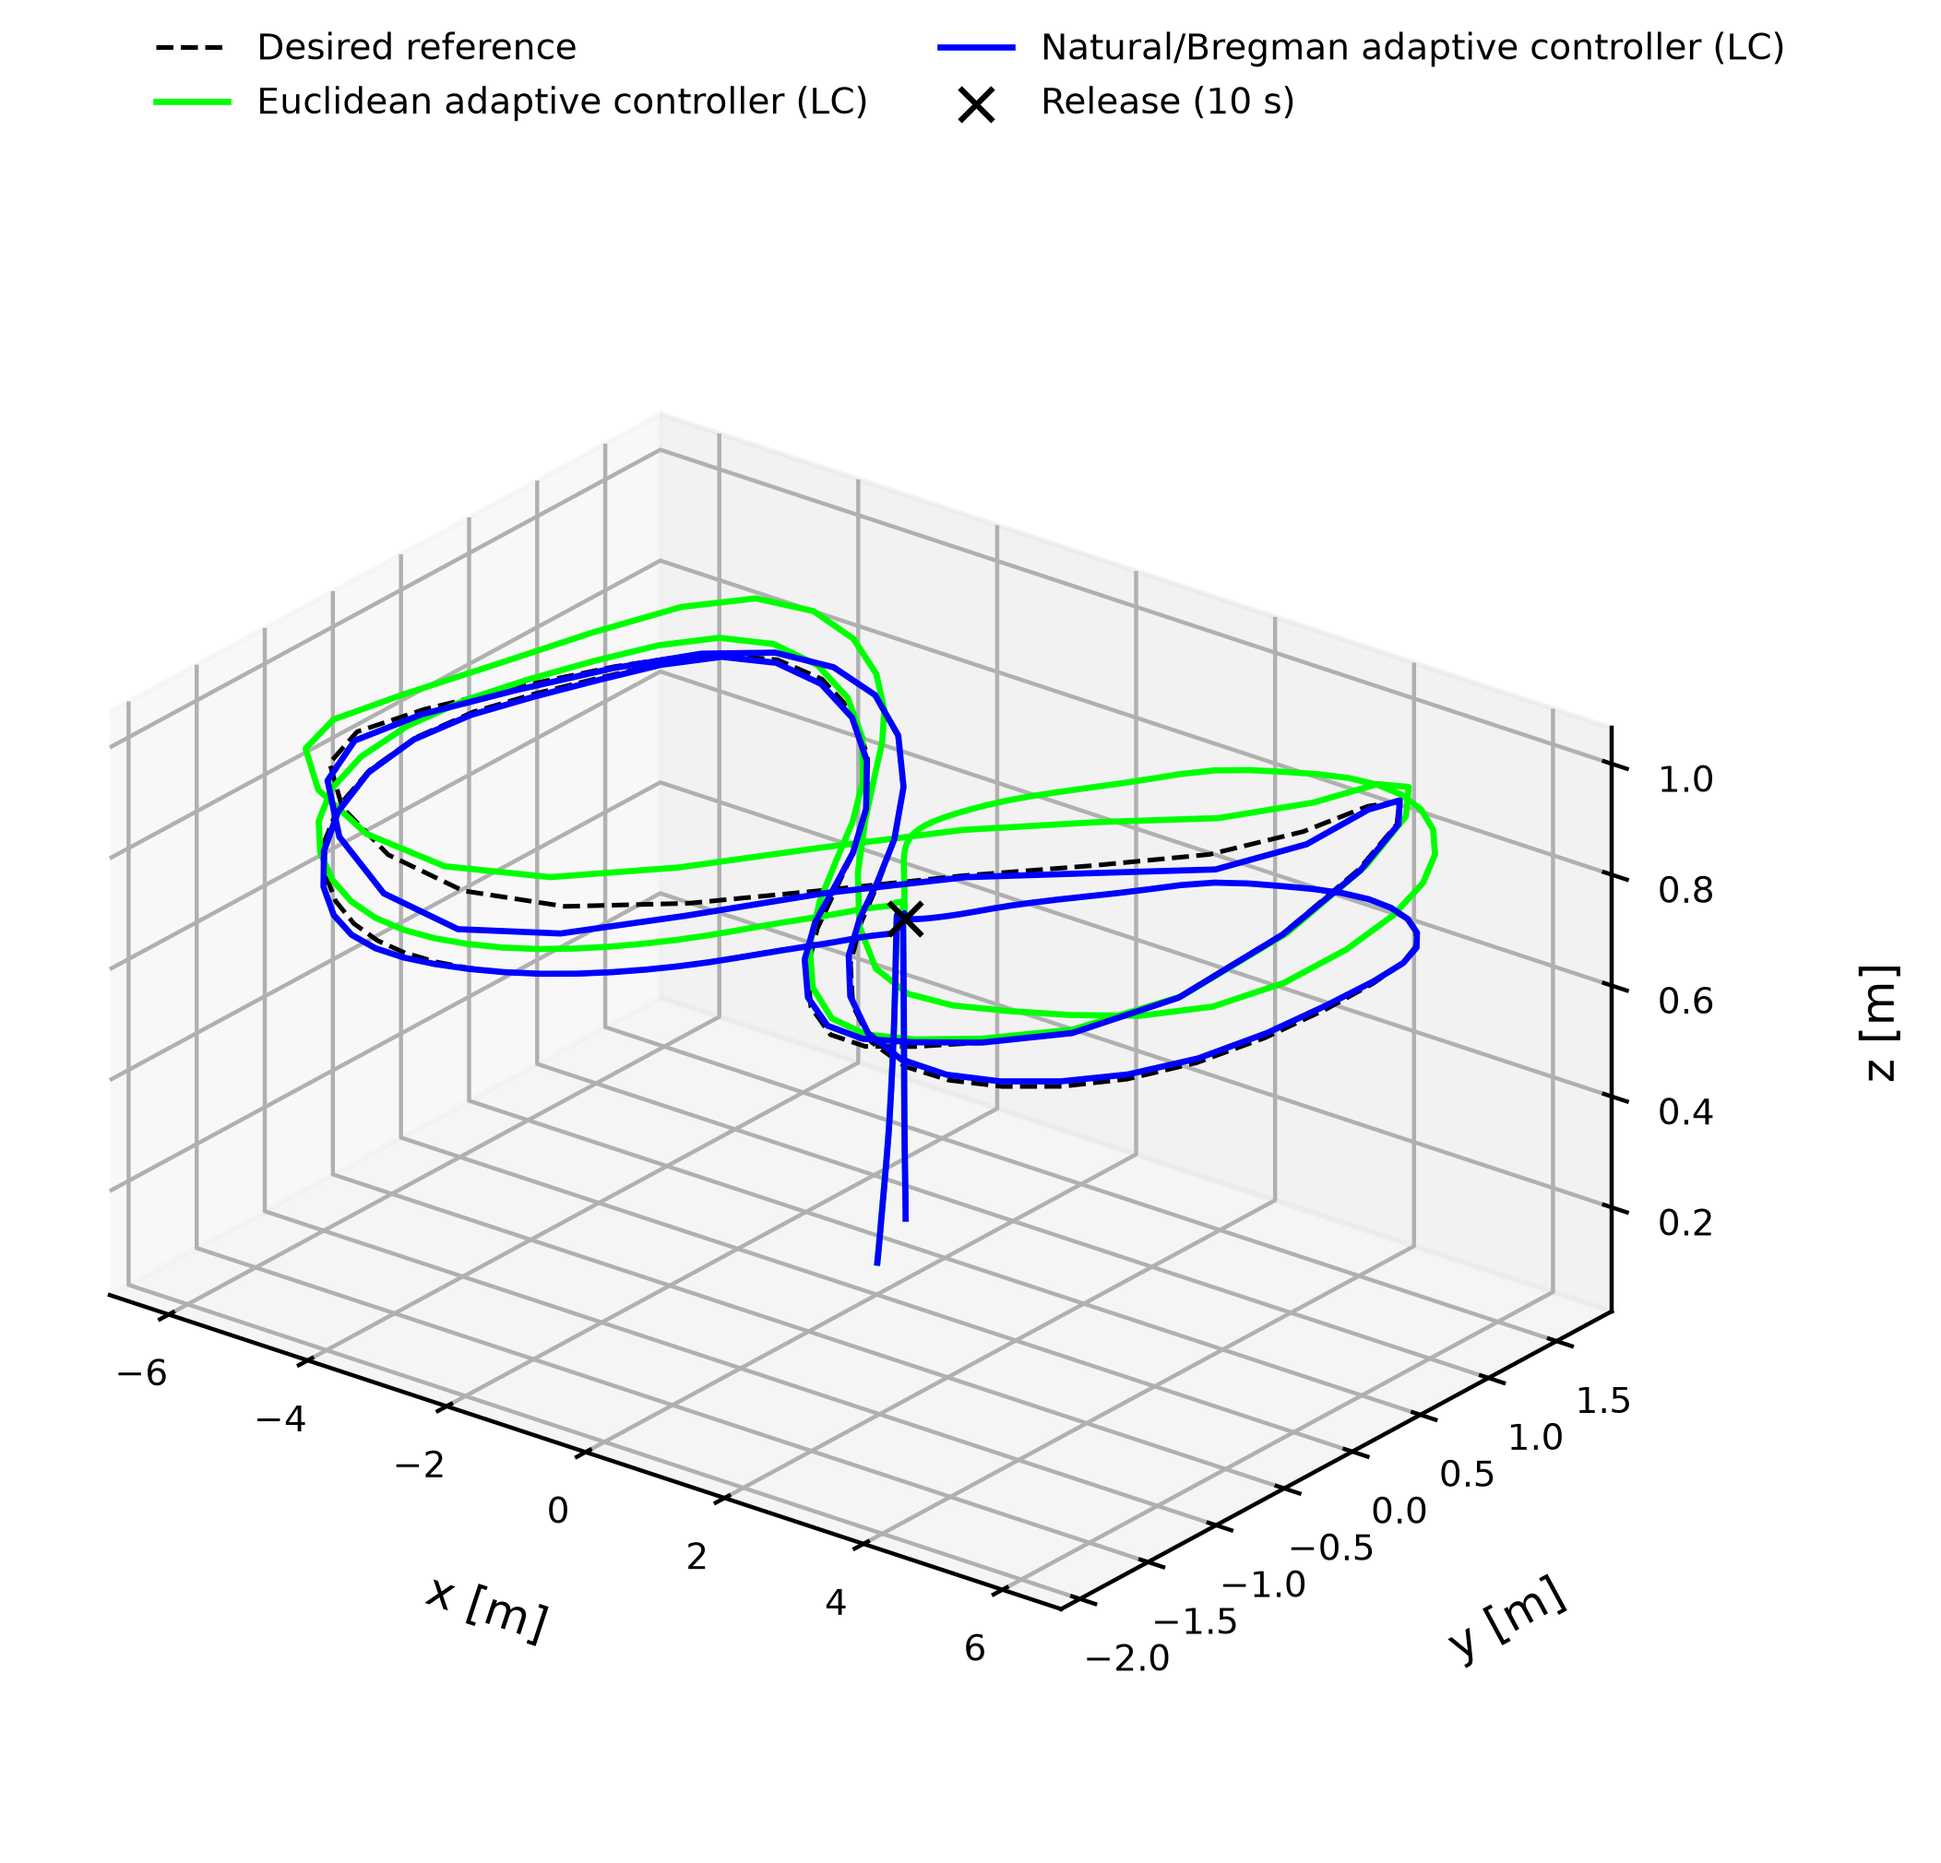
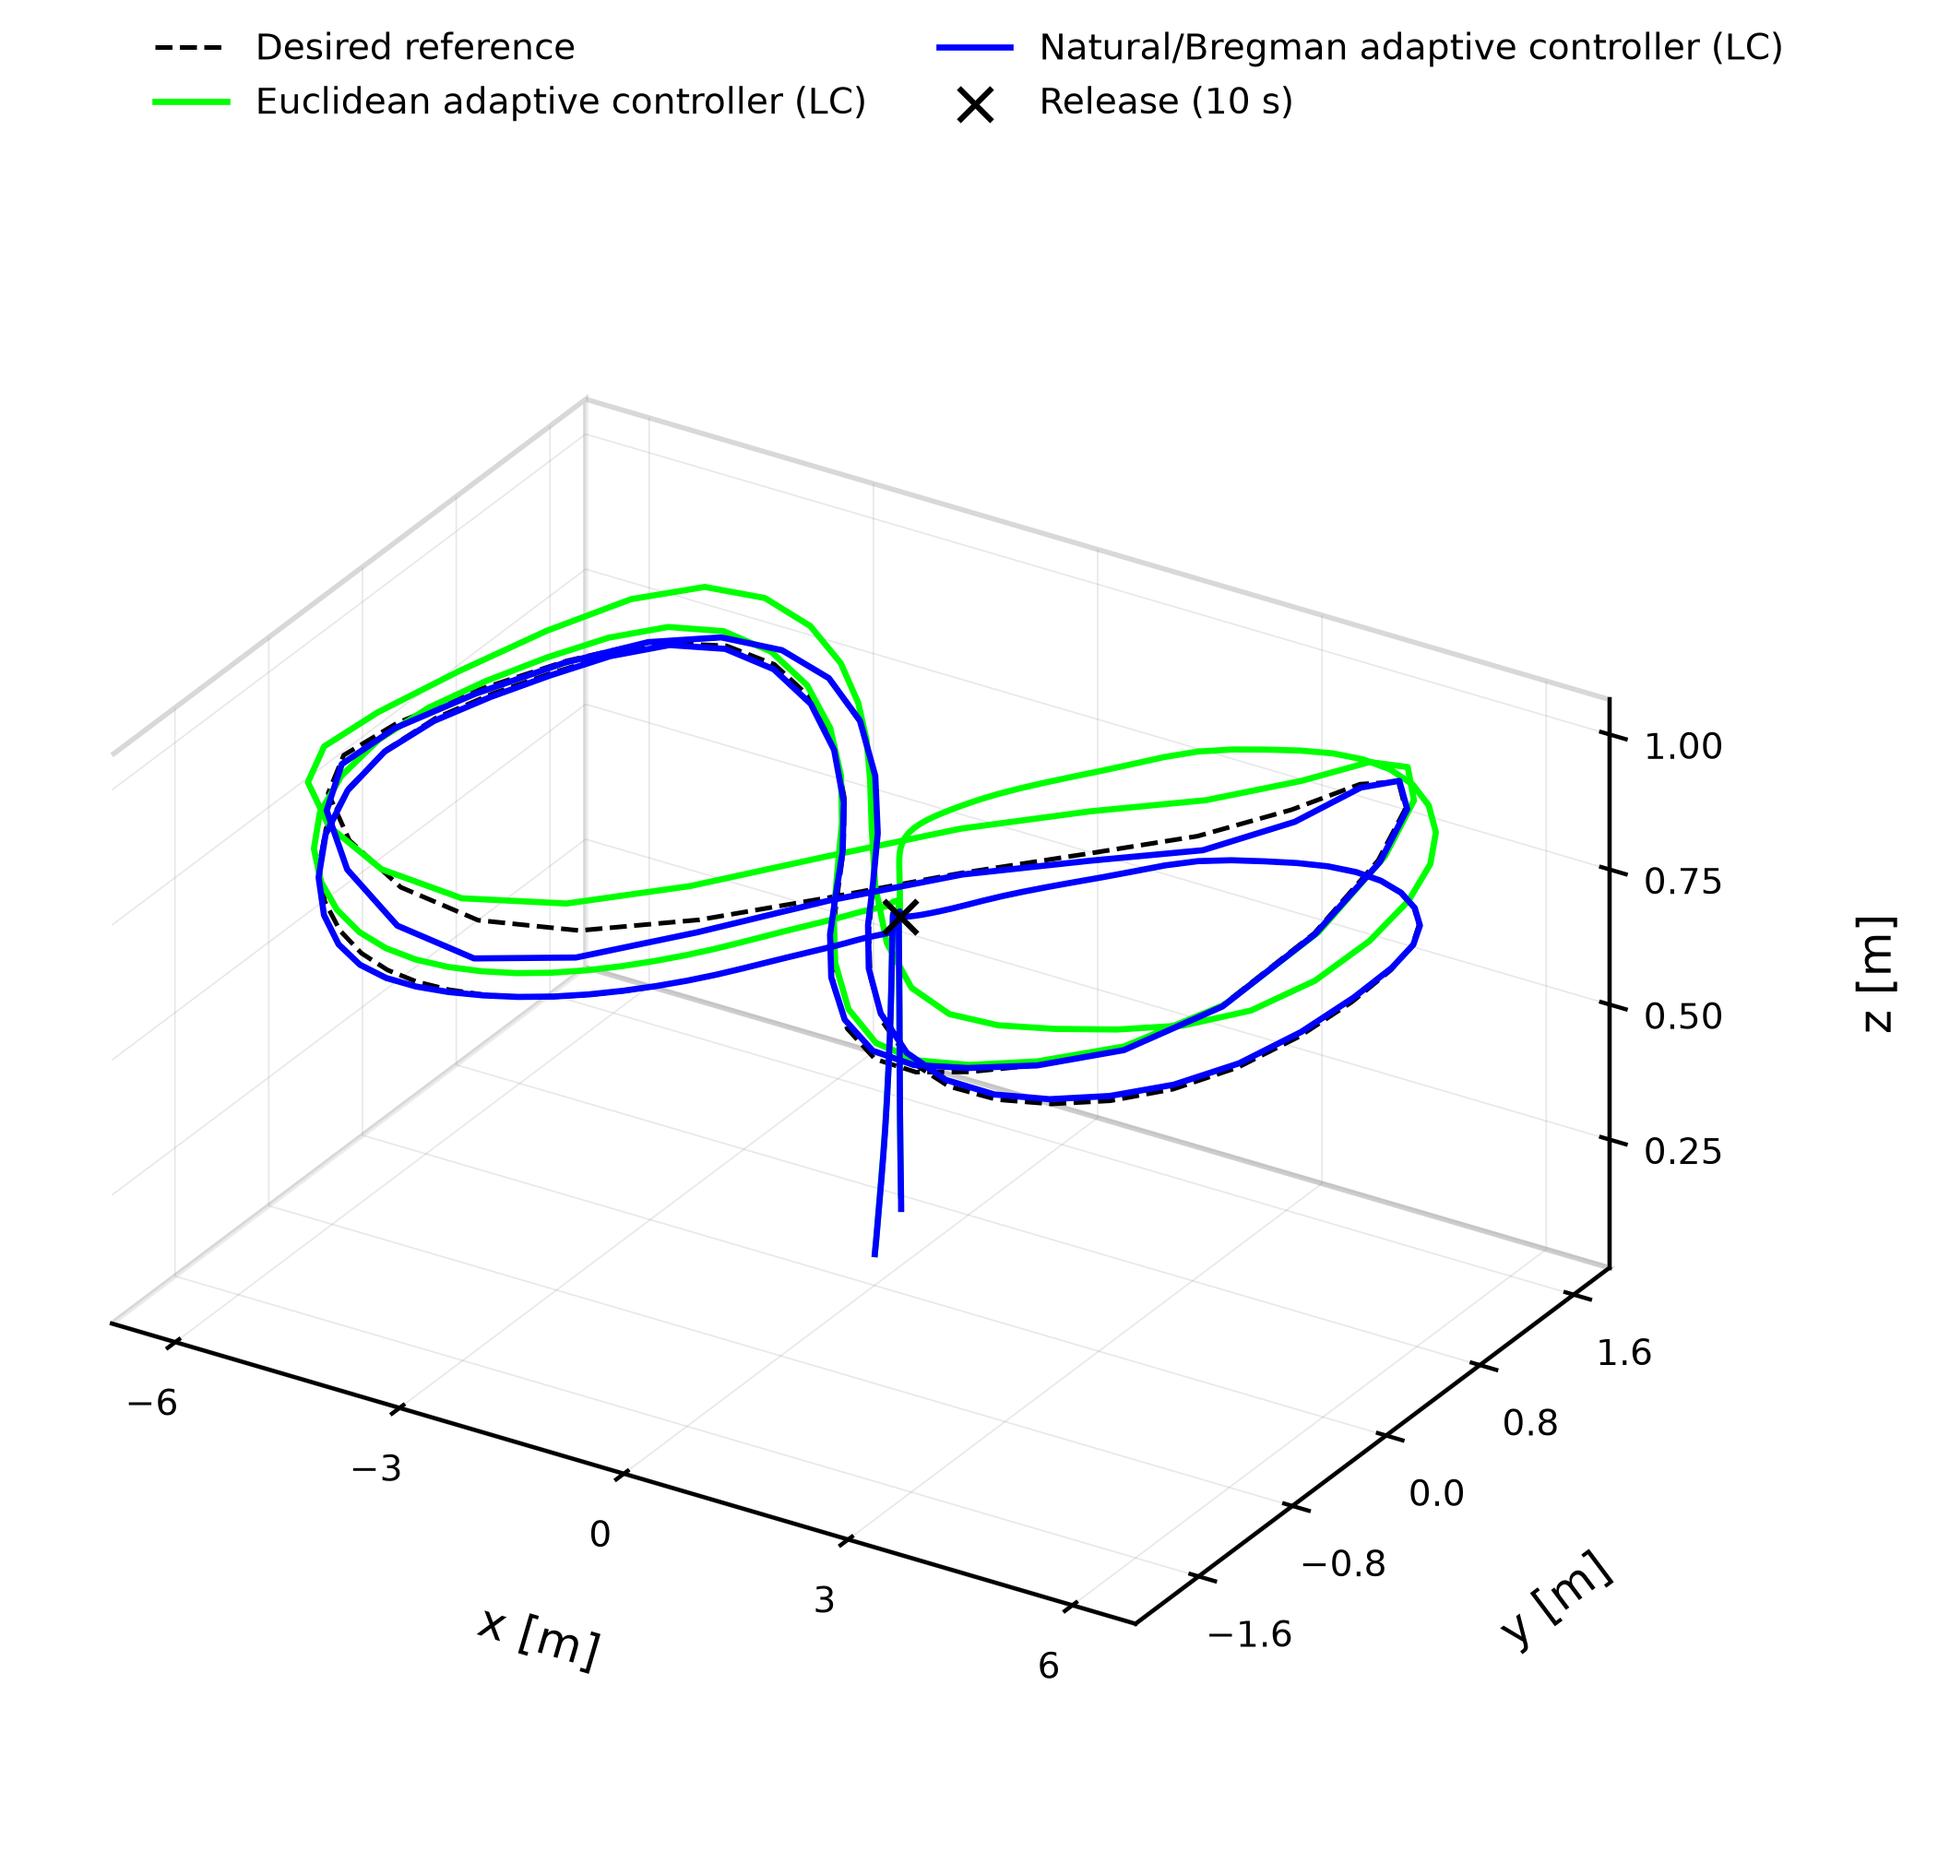
refine adaptive 3D trajectory styling

diff --git a/src/agc/viz/publication_figures.py b/src/agc/viz/publication_figures.py
@@ -4,6 +4,7 @@ import numpy as np
 import matplotlib
 matplotlib.use("Agg")
 import matplotlib.pyplot as plt
+from matplotlib.ticker import MaxNLocator
 from scipy.spatial.transform import Rotation
 from ..math.se3 import inv_se3, adjoint_se3
 from ..math.inertia import center_and_principal_moments
@@ -181,9 +182,15 @@ def adaptive_figures(runs, scenarios, output_dir):
         ax.set_ylim(lower[1] - margin[1], upper[1] + margin[1])
         ax.set_zlim(lower[2] - margin[2], upper[2] + margin[2])
         ax.set_box_aspect((1.35, 1.0, .72))
-        ax.view_init(elev=25, azim=-52)
+        ax.view_init(elev=28, azim=-58)
         ax.set_proj_type("ortho")
-        ax.grid(True, alpha=.18, linewidth=.5)
+        ax.xaxis.set_major_locator(MaxNLocator(5))
+        ax.yaxis.set_major_locator(MaxNLocator(5))
+        ax.zaxis.set_major_locator(MaxNLocator(5))
+        for axis in (ax.xaxis, ax.yaxis, ax.zaxis):
+            axis._axinfo["grid"].update({"color": (0.55, 0.55, 0.55, 0.20), "linewidth": .3})
+            axis.pane.set_facecolor((1.0, 1.0, 1.0, 0.0))
+            axis.pane.set_edgecolor((0.70, 0.70, 0.70, 0.35))
         ax.tick_params(labelsize=7, pad=0)
         ax.set_xlabel("x [m]", labelpad=8)
         ax.set_ylabel("y [m]", labelpad=8)
